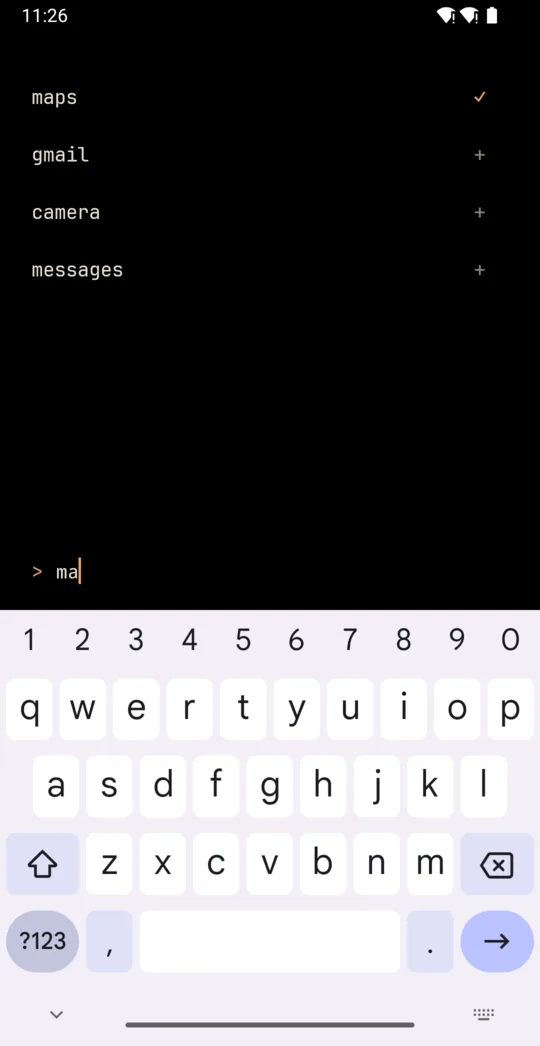
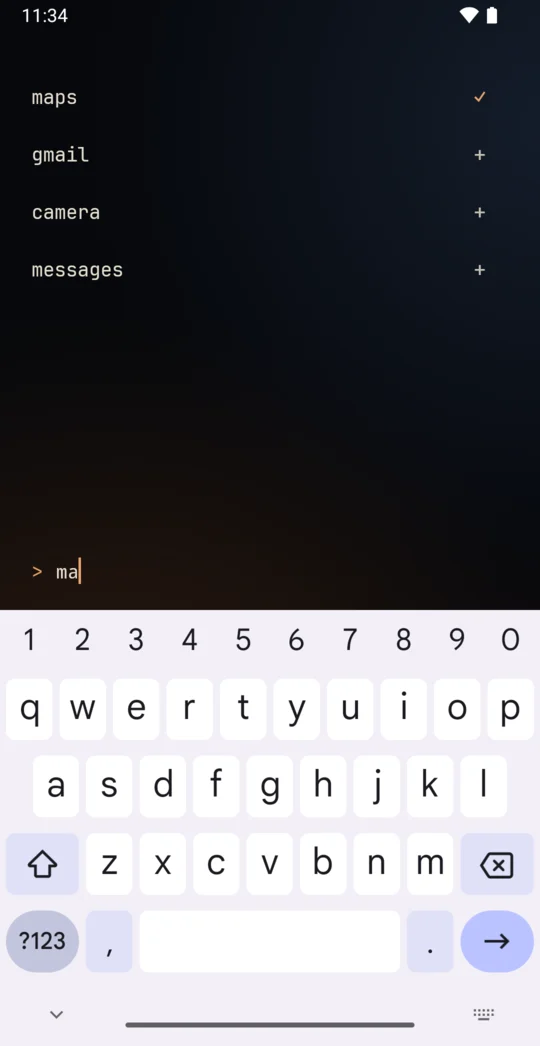
Show a background in README screenshots; open edit at the top
Retake the screenshots with a photo background, so they show more than
black. Edit mode now always opens scrolled to the top.

diff --git a/app/src/main/java/app/crease/launcher/MainActivity.kt b/app/src/main/java/app/crease/launcher/MainActivity.kt
@@ -615,6 +615,8 @@ class MainActivity : Activity(), Host {
         trail.clear()
         backdropNote = null
         setMode(Mode.EDIT)
+        // Always start at the top, not wherever the list was left last time.
+        outputScroll.post { outputScroll.scrollTo(0, 0) }
     }
 
     private fun push(next: Mode) {

diff --git a/README.md b/README.md
@@ -17,7 +17,7 @@ Android 11+. No icons, no internet permission, under 1 MB.
   <img src="docs/screenshots/2-inner-centered.webp" alt="Inner screen with home apps centred." width="49%">
 </p>
 
-Screenshots are from a foldable emulator.
+Screenshots are from a foldable emulator, with a photo background set in edit mode.
 
 ## Install
 
